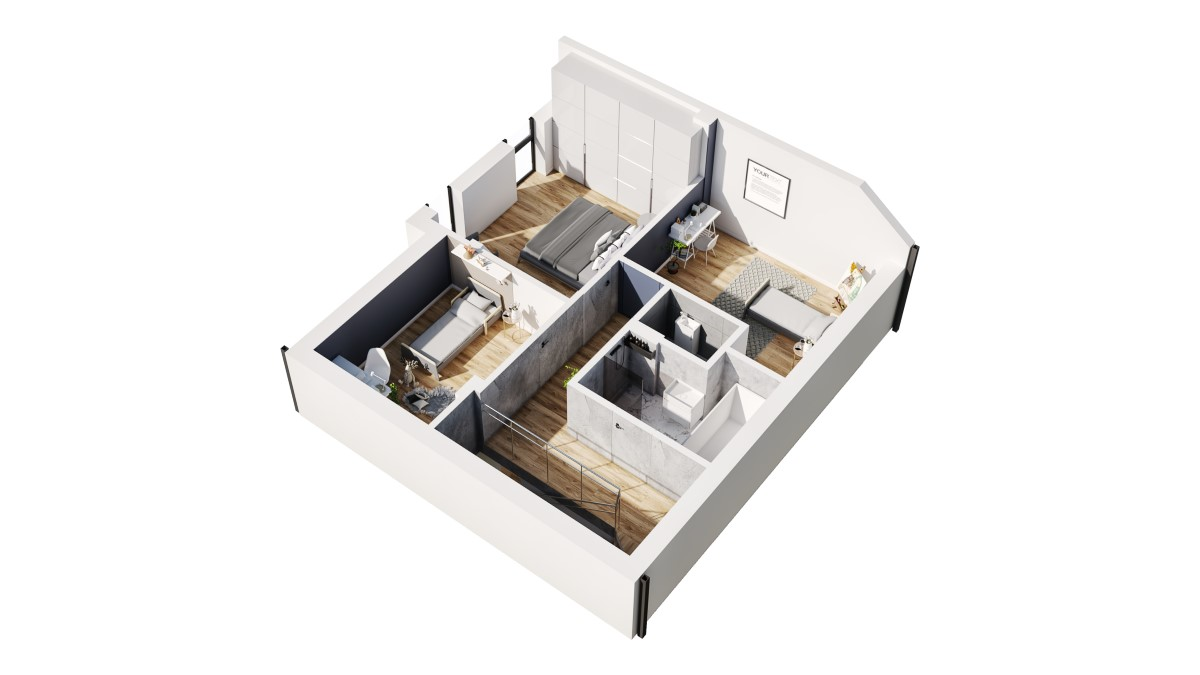
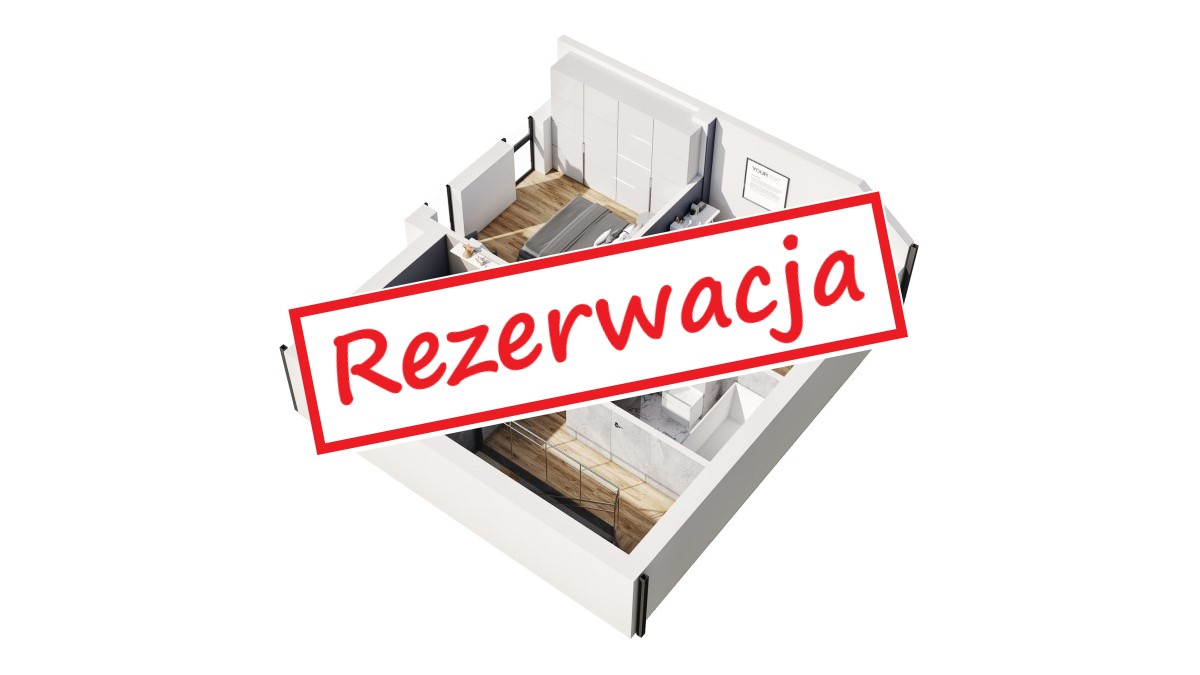
added pic for march

Changed region(s): [[0.2158, 0.1867, 0.7708, 0.6844], [0.4625, 0.6844, 0.555, 0.9333], [0.555, 0.6222, 0.5858, 0.6533]]

diff --git a/docs/mieszkania_mieszkania_sprzedaz_lubin.html b/docs/mieszkania_mieszkania_sprzedaz_lubin.html
@@ -64,7 +64,7 @@
 																	<td>64.01 m2</td>
 																	<td>70.00 m2</td>
 																	<td>-</td>
-																	<td>Rezerwacja</td>
+																	<td>Sprzedane</td>
 																	<td>-</td>
 																</tr>
 																<tr>
@@ -108,9 +108,9 @@
 																	<td>4</td>
 																	<td>72.96 m2</td>
 																	<td> </td>
-																	<td>Zapytaj o cenę</td>
-																	<td>Dostępne</td>
-																	<td><a href="Karta_mieszkanie_3B_np.pdf" class="button special">Karta</a></td>
+																	<td>-</td>
+																	<td>Rezerwacja</td>
+																	<td>-</td>
 																</tr>
 																<tr>
 																	<td>4A</td>
@@ -190,10 +190,10 @@
         
         <article>
             <span class="image">
-                <img src="img/miniaturka_pietro.jpg" alt="" />
+                <img src="img/miniaturka_pietro_rezerwacja.jpg" alt="" />
             </span>
             <header class="major">
-                <h3><a href="Karta_mieszkanie_3B_np.pdf" class="link">Mieszkanie 3B</a></h3>
+                <h3><a href="" class="">Mieszkanie 3B</a></h3>
                 <p>4 pokoje + balkon</p>
             </header>
         </article>
